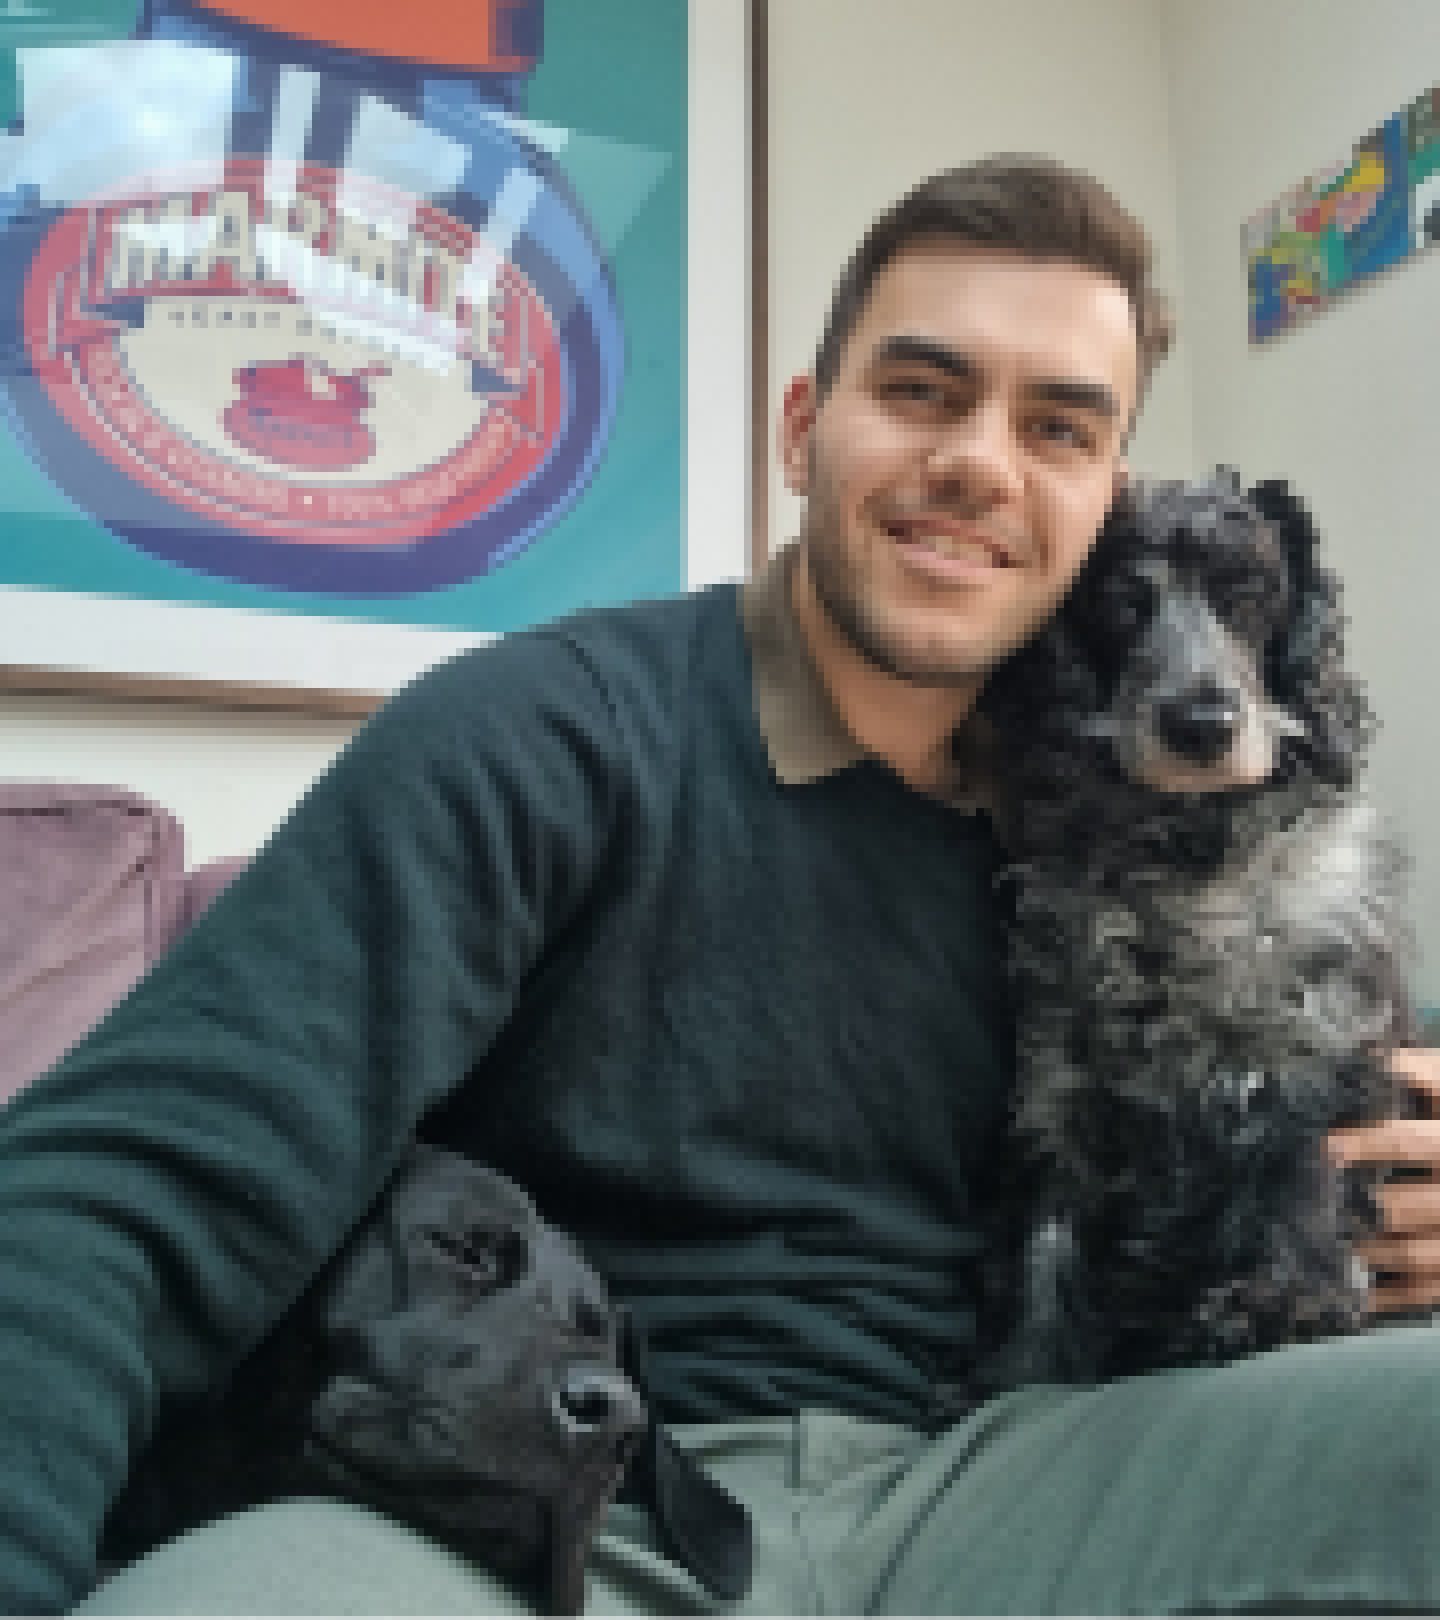
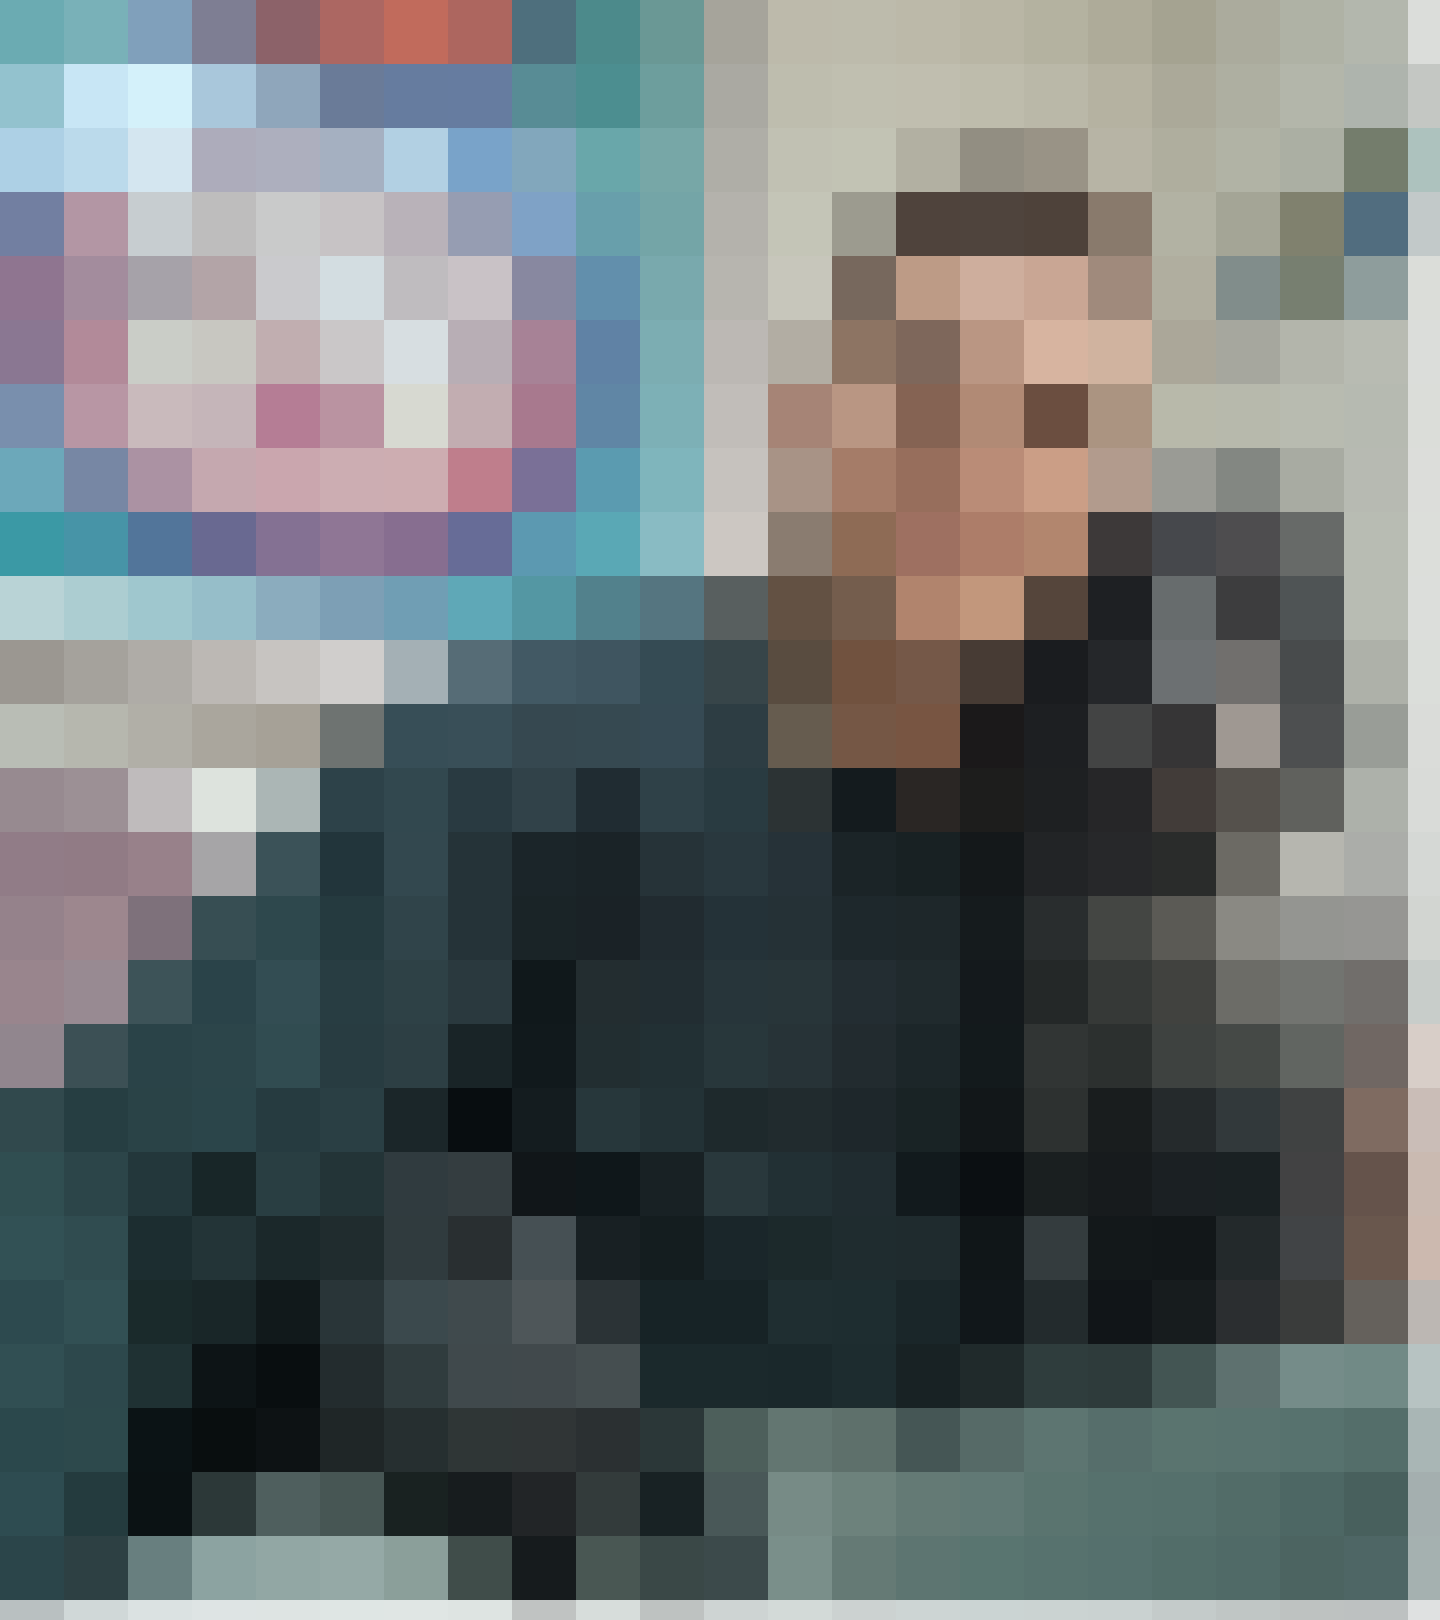
minor refactors

diff --git a/img_to_pix.go b/img_to_pix.go
@@ -12,23 +12,24 @@ import (
 type ProcessConfig struct {
 	pixel_size int
 	scaling    int
+	bg_color   color.RGBA
 }
 
+var config = ProcessConfig{pixel_size: 32, scaling: 1, bg_color: color.RGBA{0, 0, 0, 0}}
+
 func main() {
-	base_img, err := get_base_image("./input", "selfie")
+	base_img, err := get_base_image("./input", "selfie", config)
 	if err != nil {
 		log.Fatalf("Failed to get base image: %v", err)
 	}
-	config := ProcessConfig{pixel_size: 64, scaling: 1}
 	processed_img, err := process_png(base_img, config)
 	if err != nil {
 		log.Fatalf("Failed to process PNG: %v", err)
 	}
-
 	create_png(processed_img, "./output", "output_image")
 }
 
-func get_base_image(base_path string, file_name string) (image.Image, error) {
+func get_base_image(base_path string, file_name string, config ProcessConfig) (image.Image, error) {
 	var path = fmt.Sprintf("%s/%s.png", base_path, file_name)
 	file, err := os.Open(path)
 	if err != nil {
@@ -36,34 +37,17 @@ func get_base_image(base_path string, file_name string) (image.Image, error) {
 		return nil, err
 	}
 	defer file.Close()
-
 	base_img, err := png.Decode(file)
+	if base_img.Bounds().Dx()%config.pixel_size != 0 {
+		panic("pixel_size must divide width")
+	}
+	if base_img.Bounds().Dy()%config.pixel_size != 0 {
+		panic("pixel_size must divide height")
+	}
 	if err != nil {
 		fmt.Println("Error decoding file:", err)
 		return nil, err
 	}
-
-	bounds := base_img.Bounds()
-	var imageWidth = bounds.Dx()
-	var imageHeight = bounds.Dy()
-	fmt.Println("Width:", imageWidth, "Height:", imageHeight)
-	var maxPixels int = 64
-
-	for y := bounds.Min.Y; y < bounds.Max.Y; y++ {
-		if y >= maxPixels {
-			break
-		}
-		for x := bounds.Min.X; x < bounds.Max.X; x++ {
-			if x >= maxPixels {
-				break
-			}
-
-			pixel := base_img.At(x, y)
-			r, g, b, a := pixel.RGBA()
-			fmt.Printf("Pixel at (%d,%d) - R:%d, G:%d, B:%d, A:%d\n", x, y, r>>8, g>>8, b>>8, a>>8)
-		}
-	}
-
 	return base_img, nil
 }
 
@@ -93,13 +77,23 @@ func process_png(base_img image.Image, config ProcessConfig) (image.Image, error
 	fmt.Printf("%v", config)
 	var width = base_img.Bounds().Dx()
 	var height = base_img.Bounds().Dy()
+
+	if width%config.pixel_size != 0 {
+		panic("pixel_size must divide width")
+	}
+	if height%config.pixel_size != 0 {
+		panic("pixel_size must divide height")
+	}
+
 	img := image.NewRGBA(image.Rect(0, 0, width, height))
 
-	// for y := 0; y < height; y++ {
-	// 	for x := 0; x < width; x++ {
-	// 		img.Set(x, y, color.RGBA{255, 255, 255, 255})
-	// 	}
-	// }
+	if config.bg_color.A != 0 { // if the bg_color is not completely transparent, then fill the background before the remaining processing
+		for y := 0; y < height; y++ {
+			for x := 0; x < width; x++ {
+				img.Set(x, y, config.bg_color)
+			}
+		}
+	}
 
 	for y := 0; y < height; y += config.pixel_size {
 		for x := 0; x < width; x += config.pixel_size {
@@ -107,18 +101,11 @@ func process_png(base_img image.Image, config ProcessConfig) (image.Image, error
 			var avg_color color.RGBA
 			count := 0
 			for dy := 0; dy < config.pixel_size; dy++ {
-				// if dy >= height {
-				// 	break
-				// }
 				for dx := 0; dx < config.pixel_size; dx++ {
-					// if dx >= width {
-					// 	break
-					// }
 					pixel := base_img.At(x+dx, y+dy)
 					r, g, b, a := pixel.RGBA()
 					color_list = append(color_list, color.RGBA{uint8(r), uint8(g), uint8(b), uint8(a)})
 					avg_color = average_color(color_list)
-					// iterate on x from x -> x + config.pixel_size
 					for j := 0; j < config.pixel_size; j++ {
 						for i := 0; i < config.pixel_size; i++ {
 							img.Set(x+i, y+j, avg_color)
